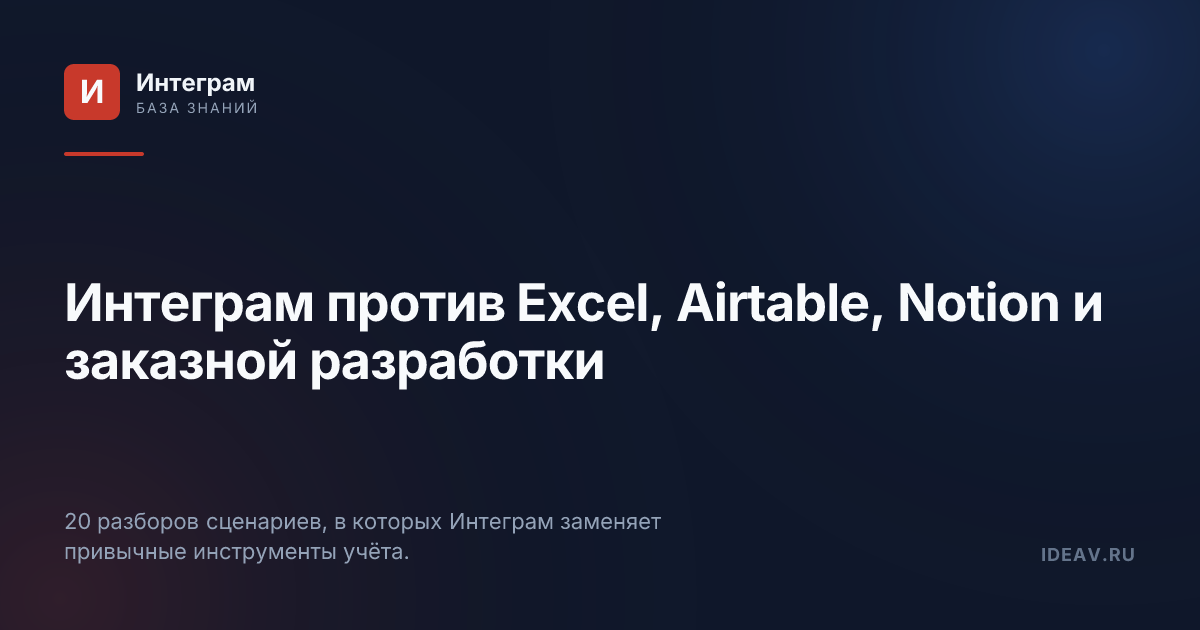
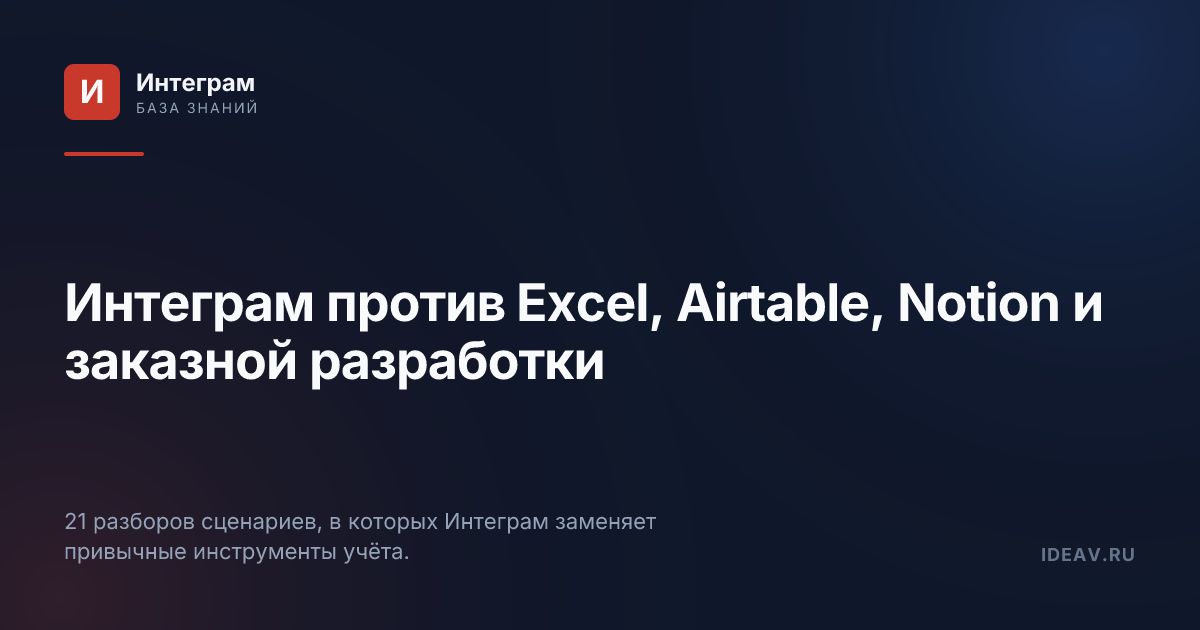
docs(kb): article #18 — on-premise with docker, Минцифры registry and JWT/LDAP (refs #234)
Адресует второй пункт задачи #234: добавить заметку об on-premise по
общему подходу к написанию базы знаний.

- src/data/knowledgeBase.ts — новая статья «18-on-premise-procurement»:
  docker-разворот в контуре заказчика, карточка в реестре Минцифры
  (4638631), импортозамещение по 223-ФЗ и 44-ФЗ, JWT-авторизация и
  интеграция с LDAP/AD, доработки под политику ИБ. Формат повторяет
  существующие статьи (scenario, integramDifference,
  integramDifferenceDetailed, limitations, sources, relatedSlugs).
- Угол отличается от #15 «Локальное развёртывание»: там разбирается
  проектное бюро с требованиями к контролю данных, здесь — закупка
  крупного корпоративного или государственного заказчика.
- relatedSlugs у #15 и #06 расширены ссылкой на новую статью.
- public/llms.txt — добавлен пункт в разделе «Контроль и тарифы»,
  счётчик материалов поднят с 19 до 20.
- public/sitemap.xml — добавлен URL новой статьи с lastmod 2026-05-14.
- public/og/18-on-premise-procurement.png и обновлённый
  public/og/knowledge-base.png — сгенерированы при `npm run build`.

Build (npm run build) и tests (npm test) проходят.

Changed region(s): [[0.0617, 0.8143, 0.555, 0.8444]]

diff --git a/src/data/knowledgeBase.ts b/src/data/knowledgeBase.ts
@@ -444,6 +444,7 @@ export const knowledgeBaseArticles: KnowledgeBaseArticle[] = [
     ],
     relatedSlugs: [
       '15-local-control-files',
+      '18-on-premise-procurement',
       '08-html-templates',
       '13-api-json-export',
       '05-access-rights',
@@ -1422,6 +1423,7 @@ export const knowledgeBaseArticles: KnowledgeBaseArticle[] = [
       'Интеграм — не SaaS и не управляемый сервис по умолчанию. Это платформа, которую можно развернуть в собственном контуре заказчика. Для компаний с требованиями к размещению данных это означает, что их учётная система не зависит от решений стороннего поставщика — в части доступности, ценообразования и условий обработки данных.',
     sourceUrl: `${'https://github.com/ideav/crm/blob/main/docs/integram-article-reviews'}/15-local-control-files.md`,
     relatedSlugs: [
+      '18-on-premise-procurement',
       '05-access-rights',
       '08-html-templates',
       '13-api-json-export',
@@ -1724,6 +1726,106 @@ export const knowledgeBaseArticles: KnowledgeBaseArticle[] = [
       '14a-reports',
     ],
     sourceUrl: 'https://github.com/ideav/crm/issues?q=is%3Aissue%20state%3Aclosed%20gssync',
+  },
+  {
+    slug: '18-on-premise-procurement',
+    number: '18',
+    title: 'On-premise в реестре Минцифры: docker-разворот, импортозамещение и корпоративная авторизация',
+    shortTitle: 'On-premise в реестре Минцифры',
+    seoTitle: 'Интеграм on-premise: реестр Минцифры, docker, JWT и LDAP',
+    seoDescription:
+      'Интеграм разворачивается как docker-контейнер в контуре заказчика, включён в реестр российского ПО (4638631) и подходит под импортозамещение. Поддерживаются JWT и интеграция с LDAP/AD.',
+    ogTitle: 'On-premise Интеграм: docker, реестр и корпоративный SSO',
+    ogDescription:
+      'Развёртывание в закрытом контуре, закупка по 223-ФЗ и 44-ФЗ, авторизация через корпоративный AD/LDAP — на одной странице.',
+    compare: 'зарубежные SaaS и закрытые корпоративные платформы без российской прописки',
+    summary:
+      'Когда ИТ-служба и закупки приходят с требованиями «российское ПО из реестра», «закрытый контур без интернета» и «авторизация через наш AD», большинство no-code-сервисов отвечают развёрнутой памяткой о DPA и расположении датацентров. Интеграм отвечает короче: docker-контейнер в контуре заказчика, карточка в реестре Минцифры под номером 4638631, JWT и LDAP/AD прямо в коробке.',
+    metaDescription:
+      'On-premise Интеграм: docker-контейнер в контуре заказчика, реестр российского ПО (4638631), импортозамещение по 223-ФЗ/44-ФЗ, JWT и интеграция с LDAP/Active Directory.',
+    metaKeywords:
+      'on-premise no-code,docker контейнер,реестр минцифры,импортозамещение,223-фз,44-фз,jwt авторизация,ldap интеграция,active directory,sso,интеграм,российское по',
+    context:
+      'Для значительной части корпоративных и государственных заказчиков выбор учётной системы — это не только функциональные требования. К ним добавляются требования закупки и информационной безопасности: продукт должен быть в реестре российского ПО, разворачиваться внутри контура заказчика и встраиваться в уже работающую инфраструктуру аутентификации.\n\nЕсли инструмент не закрывает эти пункты, дальше можно не обсуждать ни тарифы, ни функции — просто не пройдёт оценку.',
+    scenario: {
+      intro:
+        'Промышленное предприятие выбирает no-code-платформу для оперативного учёта. Закупка ведётся по 223-ФЗ, ИТ-департамент использует Active Directory и собственный SSO-шлюз, контур закрыт от интернета на уровне периметра. От поставщика просят ответы на конкретные вопросы:',
+      symptoms: [
+        'есть ли продукт в реестре российского ПО Минцифры и какой у него реестровый номер;',
+        'можно ли развернуть систему внутри закрытого контура без выхода в интернет;',
+        'в каком виде поставляется дистрибутив — образ, архив, исходники, есть ли воспроизводимая установка;',
+        'поддерживается ли единая авторизация через корпоративный Active Directory или внешний SSO по JWT;',
+        'можно ли подключить аудит, реверс-прокси, SIEM и другие компоненты, обязательные по политике ИБ;',
+        'что будет с системой при невозможности получать обновления онлайн.',
+      ],
+      note:
+        'У зарубежных SaaS-платформ короткий ответ обычно такой: «продукта в реестре нет, on-premise не предусмотрен, SSO — на старших тарифах». Дальше эти пункты становятся блокирующими в закупке.',
+    },
+    integramDifference: [
+      'Карточка в реестре российского ПО: Интеграм зарегистрирован в реестре Минцифры под номером 4638631, поэтому закупка может ссылаться на реестр и закрывать требование по импортозамещению.',
+      'Docker-контейнер в контуре заказчика: дистрибутив поставляется как docker-образ, поднимается на любом сервере с Docker — от корпоративного гипервизора до изолированной виртуалки в закрытом ЦОД.',
+      'Работа без интернета: после установки сервис не звонит «домой», не требует онлайн-лицензии и продолжает работать в полностью изолированной сети.',
+      'Авторизация через JWT: внешние системы и SSO-шлюзы выпускают JWT-токены, и Интеграм принимает их на входе без отдельного хранилища паролей.',
+      'Синхронизация с LDAP / Active Directory: пользователи и группы тянутся из корпоративного каталога, права в Интеграме раздаются на основе уже существующих ролей в AD.',
+      'Доработки под требования ИБ: реверс-прокси, особый аудит, интеграция с SIEM, специфичное шифрование и любые подобные пункты решаются на этапе внедрения, а не отвергаются как «не предусмотрено архитектурой».',
+    ],
+    integramDifferenceDetailed: [
+      {
+        title: 'Реестр российского ПО (4638631)',
+        body: 'Карточка продукта в реестре Минцифры — [reestr.digital.gov.ru/reestr/4638631](https://reestr.digital.gov.ru/reestr/4638631/) — даёт юридическое основание закладывать Интеграм в закупки по 223-ФЗ и 44-ФЗ, ссылаться на реестровый номер и закрывать соответствующее требование по импортозамещению. Это не маркетинговая формулировка, а проверяемая запись в государственном реестре.',
+      },
+      {
+        title: 'Docker-разворот',
+        body: 'Интеграм поставляется как docker-контейнер. ИТ-служба запускает образ в привычной среде: корпоративный гипервизор, кластер с docker-compose или Kubernetes, отдельная виртуалка в изолированном сегменте — что соответствует существующим стандартам компании. Никакого специального скрипта или закрытого инсталлятора не требуется.',
+      },
+      {
+        title: 'Изолированный контур',
+        body: 'Развёрнутая on-premise инсталляция не зависит от внешних сервисов в рантайме: нет проверки лицензии онлайн, нет отправки телеметрии, нет вызова сторонних API без явной настройки. В закрытом контуре платформа работает так же, как и в открытом, а обновления поставляются через внутренний registry или tar-архивом по принятой в компании процедуре.',
+      },
+      {
+        title: 'JWT-авторизация',
+        body: 'Если в компании есть SSO-шлюз или фронтовое приложение, выпускающее JWT, Интеграм принимает такой токен на входе. Это позволяет встроить платформу в существующий контур единой авторизации без отдельной учётной системы паролей и без переноса пользователей вручную.',
+      },
+      {
+        title: 'LDAP / Active Directory',
+        body: 'Пользователи и группы синхронизируются с корпоративным каталогом. Когда сотрудник попадает в группу «Финансовый отдел» в AD, он автоматически получает соответствующие права в Интеграме. Уход сотрудника из компании отключает доступ через ту же процедуру блокировки в AD, без отдельного действия администратора платформы.',
+      },
+      {
+        title: 'Доработки под политику ИБ',
+        body: 'Большинство требований корпоративной службы безопасности — добавление реверс-прокси с TLS-терминатором, перенаправление логов в SIEM, особый журнал доступа, дополнительный фактор аутентификации — закрываются на этапе внедрения, а не разбиваются о «закрытую архитектуру SaaS». Если требование специфично, его обсуждают отдельно, но не отказывают по умолчанию.',
+      },
+    ],
+    limitations:
+      'On-premise — это операционная ответственность на стороне заказчика. Установку и сопровождение docker-контейнера, обновления, резервные копии, мониторинг и доступность обеспечивает ИТ-служба компании или подрядчик. Это не недостаток on-premise как класса, а его осознанная плата: контур, в котором ничего не зависит от поставщика, требует, чтобы инфраструктурой кто-то занимался внутри.',
+    limitationsList: [
+      'Нужны компетенции по docker и базовому Linux-администрированию или подрядчик на сопровождение.',
+      'Обновления не «приезжают сами» — их нужно скачивать и накатывать по принятой в компании процедуре.',
+      'Интеграции с корпоративными системами (LDAP, SIEM, нестандартный прокси) — отдельная работа, оплачиваемая внутри проекта внедрения, а не «галочка в тарифе».',
+      'Управляемое корпоративное облако с гарантиями SLA от поставщика — отдельная договорённость; стандартная on-premise-установка такие гарантии не подразумевает.',
+    ],
+    limitationsNote:
+      'Если у организации нет ИТ-службы и нет требований по импортозамещению или закрытому контуру, обычно проще оставаться в SaaS-варианте. On-premise имеет смысл, когда без него закупка или служба безопасности не пропускают проект.',
+    conclusion:
+      'Когда речь идёт о крупном корпоративном или государственном заказчике, требования закупки и ИБ становятся первым фильтром при выборе платформы. Интеграм проходит этот фильтр коротко: продукт в реестре Минцифры, поставляется docker-образом в контур заказчика, работает в закрытой сети и подключается к корпоративному AD/LDAP и JWT-SSO. Доработки под специфичные требования инфраструктуры — часть проекта внедрения, а не повод закрыть переговоры.',
+    sources: [
+      {
+        title: 'Реестр российского ПО — карточка Интеграма (4638631)',
+        url: 'https://reestr.digital.gov.ru/reestr/4638631/',
+        note: 'Юридическое основание для закупки и импортозамещения.',
+      },
+      {
+        title: 'ideav/backlogram#234 — добавить в базу знаний статью про on-premise',
+        url: 'https://github.com/ideav/backlogram/issues/234',
+        note: 'Исходная задача и формулировка тезисов: docker, изолированный контур, реестр, JWT, LDAP.',
+      },
+    ],
+    relatedSlugs: [
+      '15-local-control-files',
+      '06-airtable-control',
+      '05-access-rights',
+      '13-api-json-export',
+    ],
+    sourceUrl: 'https://github.com/ideav/backlogram/issues/234',
   },
 ]
 